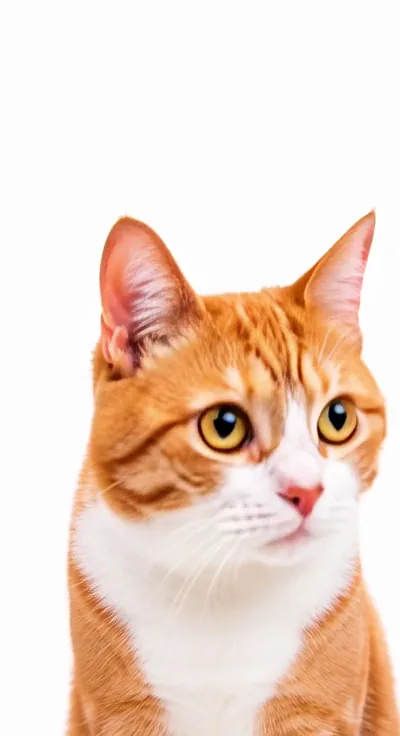
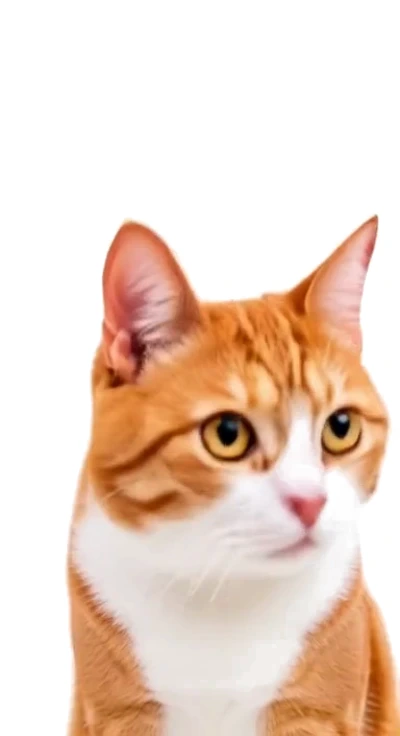
fix(cat-cursor): close the circular gaze loop

diff --git a/pages/cat-cursor/index.html b/pages/cat-cursor/index.html
@@ -5,7 +5,7 @@
   <meta name="viewport" content="width=device-width, initial-scale=1.0, maximum-scale=1.0, user-scalable=no">
   <meta name="theme-color" content="#ffffff">
   <title>Cat Cursor</title>
-  <link rel="stylesheet" href="style.css?v=20260828-2">
+  <link rel="stylesheet" href="style.css?v=20260828-4">
 </head>
 <body>
   <main id="cat-stage" class="cat-stage" aria-label="커서를 따라 시선을 움직이는 고양이">
@@ -37,6 +37,6 @@
     </div>
   </main>
 
-  <script type="module" src="script.js?v=20260828-2"></script>
+  <script type="module" src="script.js?v=20260828-4"></script>
 </body>
 </html>

diff --git a/pages/cat-cursor/script.js b/pages/cat-cursor/script.js
@@ -1,5 +1,5 @@
 const CIRCLE_FRAME_COUNT = 96;
-const ASSET_VERSION = '20260828-2';
+const ASSET_VERSION = '20260828-4';
 
 const circlePointers = Array.from({ length: CIRCLE_FRAME_COUNT }, (_, index) => {
   const angle = -(index / CIRCLE_FRAME_COUNT) * Math.PI * 2;

diff --git a/pages/cat-cursor/spec.md b/pages/cat-cursor/spec.md
@@ -3,10 +3,12 @@
 ## Interaction
 
 - The original cat video is decomposed into a 96-frame circular WebP sequence at 24 fps.
+- Circular frames 89–95 are sampled from an LTX-2.5 bridge between the original frame 88 and frame 1. Frame 96 is an exact copy of frame 1, making the circular wrap pixel-identical.
 - Sixty-one keyframes fill the missing cross: one shared center, twenty-three intermediates on both horizontal paths, and seven intermediates on each vertical path.
 - The twenty-three center-to-right poses use every intermediate frame from the existing 25-frame LTX-2.5 first/last-frame video. The center and original right cardinal frame remain unchanged.
 - The twenty-three center-to-left poses use every intermediate frame from a 25-frame Wan2.2 14B first/last-frame video. The center and original left cardinal frame remain unchanged.
 - The two vertical axes use standalone generated poses. All cross-path intermediates use the original 400 × 736 frame size before runtime.
+- Generated intermediates are exposure- and white-balance-normalized from their border samples. Only background regions connected to the image border are composited onto pure white, preserving the cat's white fur edges.
 - Each of the 157 source images owns a normalized pointer position: 96 around the circle and 61 along the central cross.
 - Pointer coordinates are normalized from the cat's face to the four edges of the stage. The image whose pointer has the smallest two-dimensional distance from the cursor is displayed.
 - Debug mode displays every image pointer and highlights the active one. Use the on-screen `Points` button, press `D`, or append `?debug=1` to the URL to enable it.
